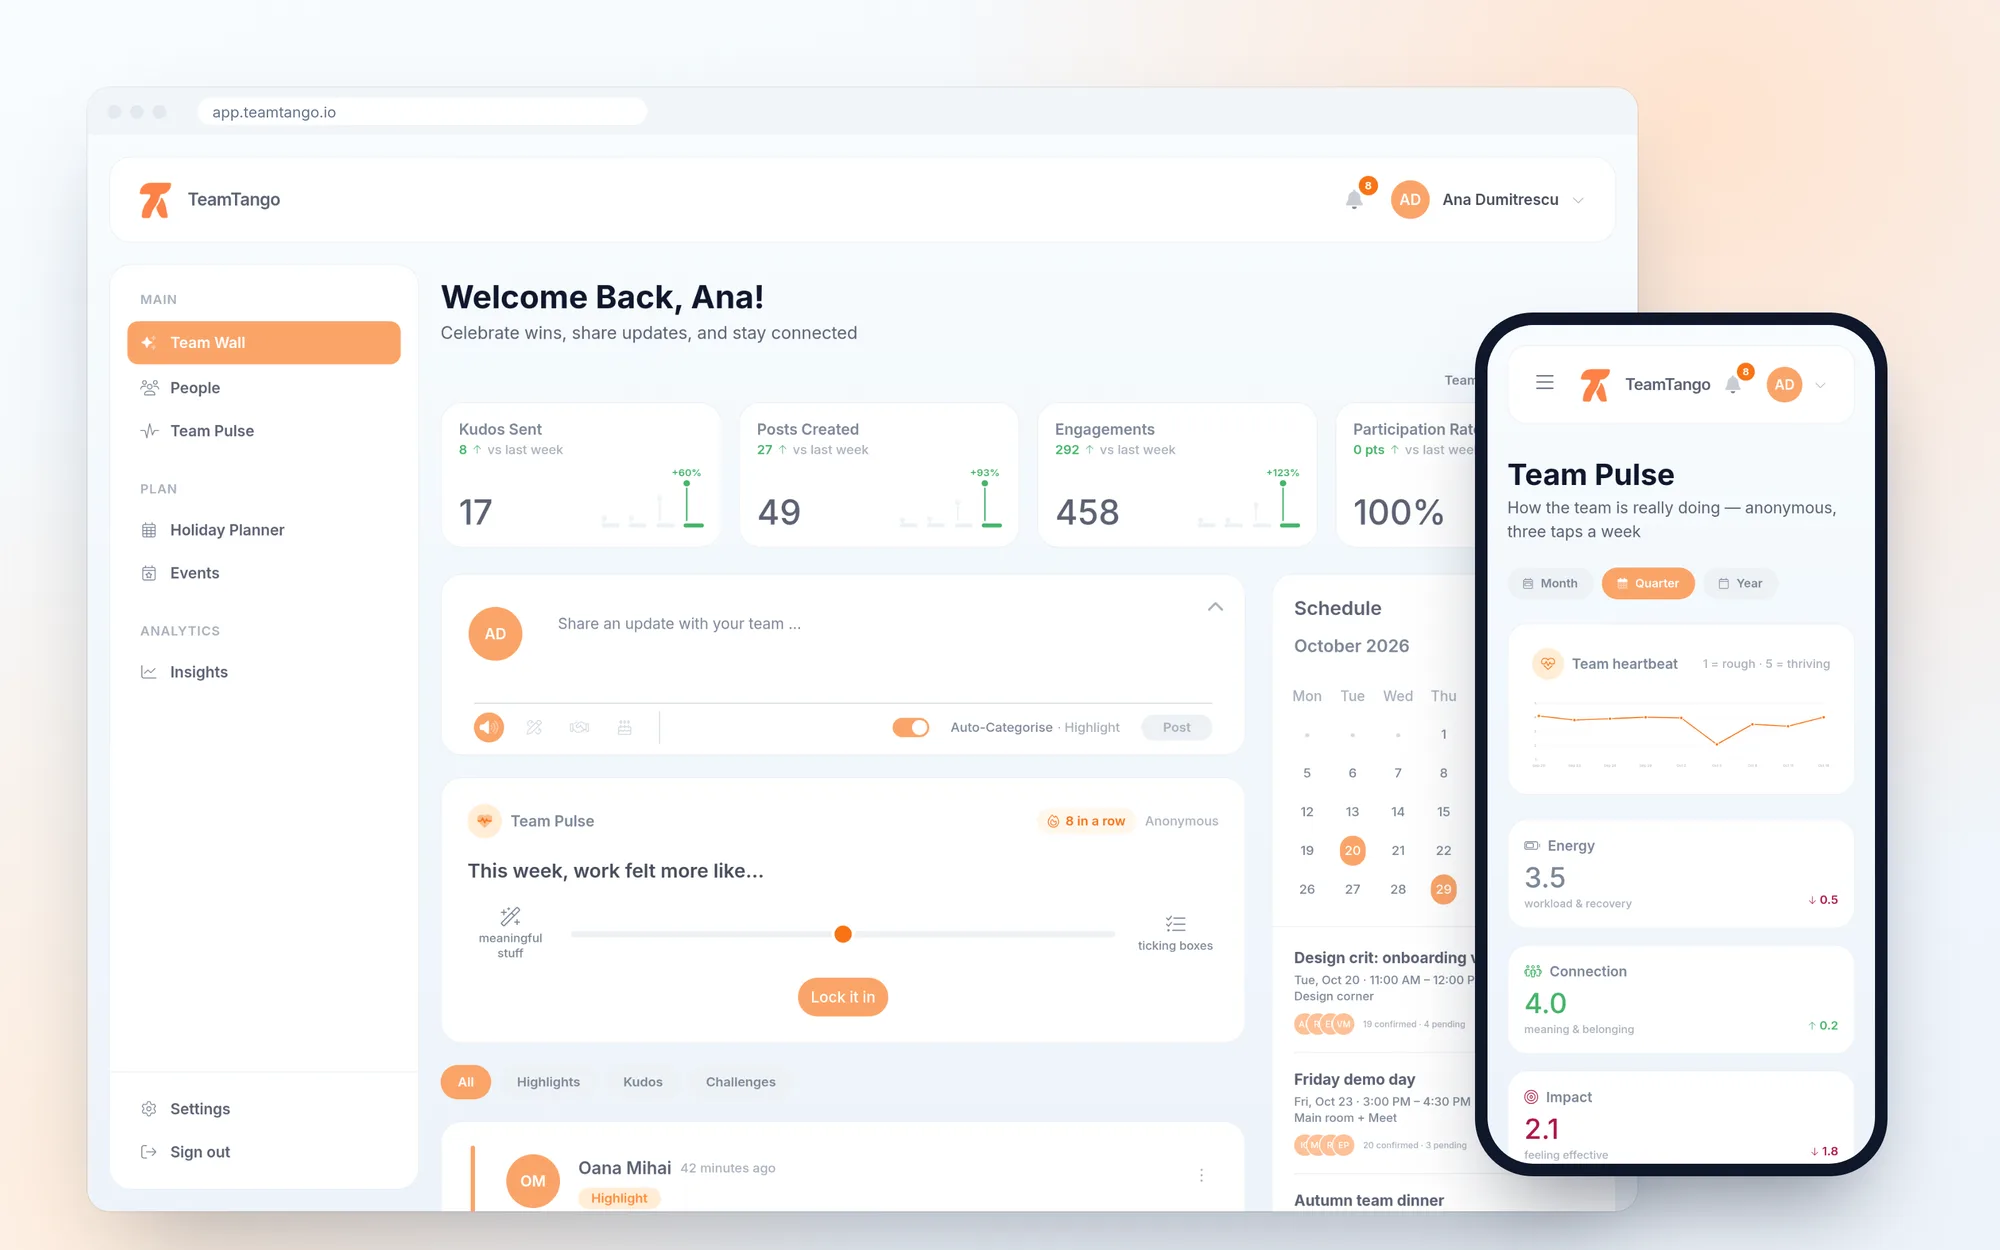
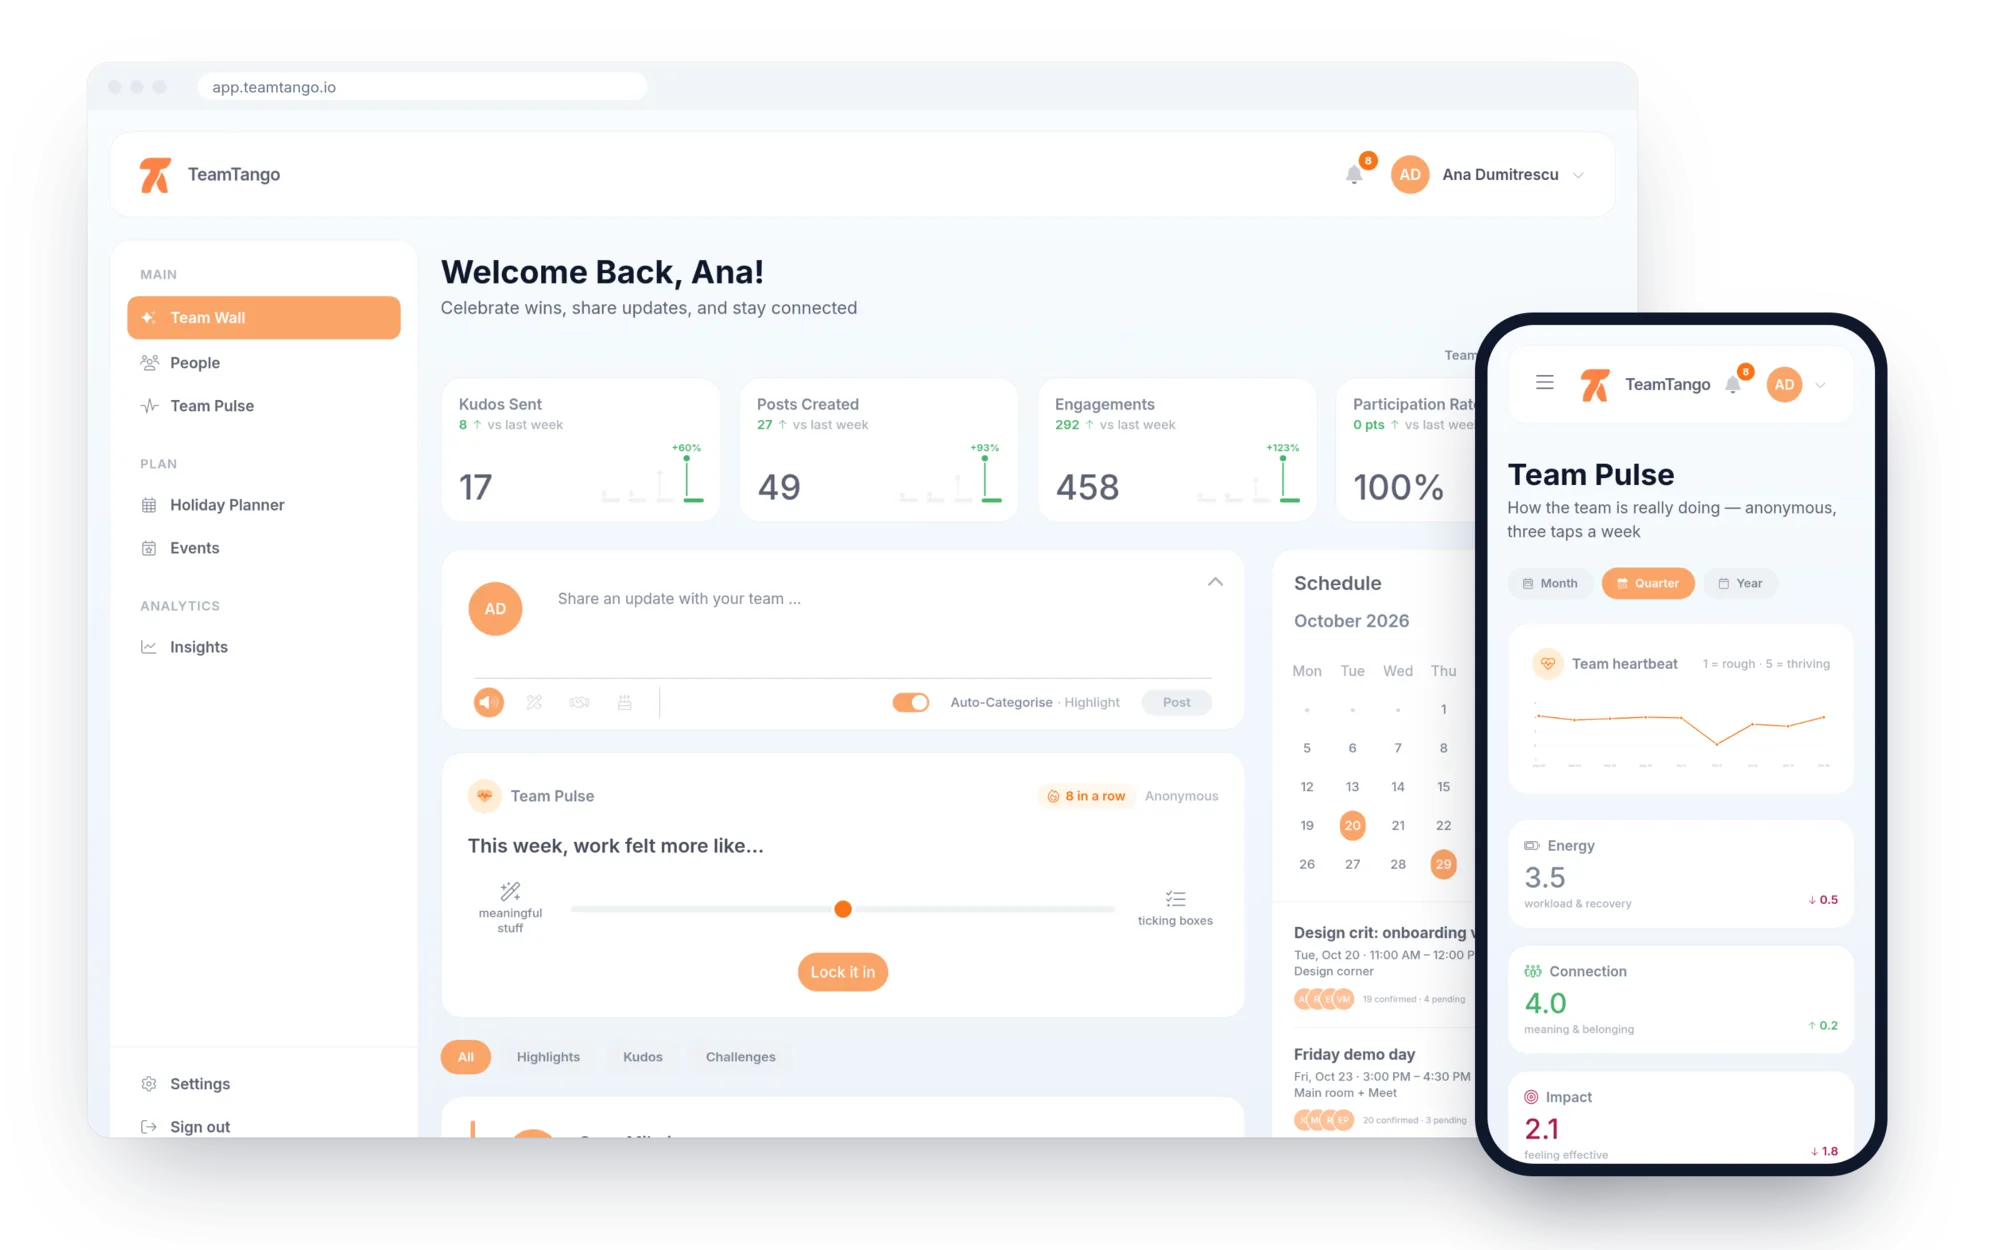
Hero shot: transparent background instead of the baked-in gradient
Claude-Session: https://claude.ai/code/session_01Mt9J5fan6rr29etzn8Pp7B

diff --git a/public/index.html b/public/index.html
@@ -894,9 +894,7 @@
             left: 50%;
             transform: translateX(-50%);
             width: min(64rem, calc(100vw - 2rem));
-            margin: 2.75rem 0 3rem;
-            border-radius: 20px;
-            overflow: hidden;
+            margin: 1.5rem 0 2rem;
         }
 
         .shot-wide img,
